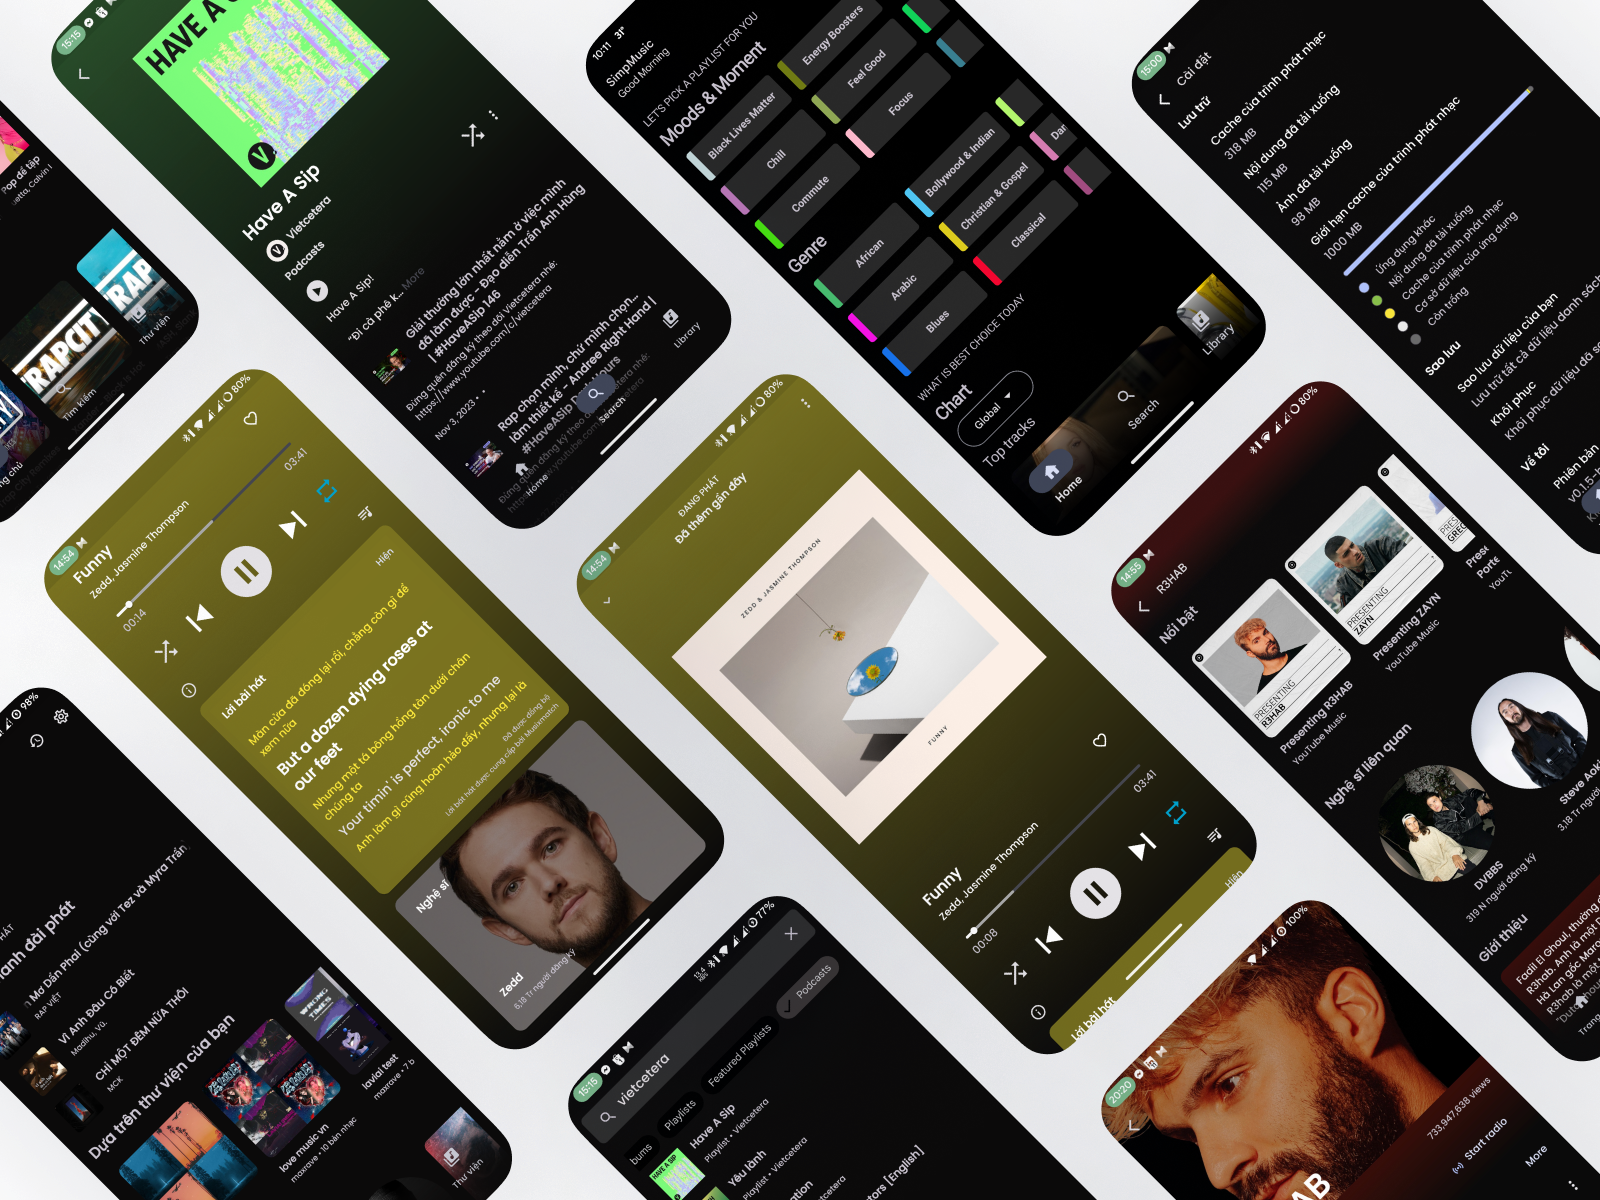
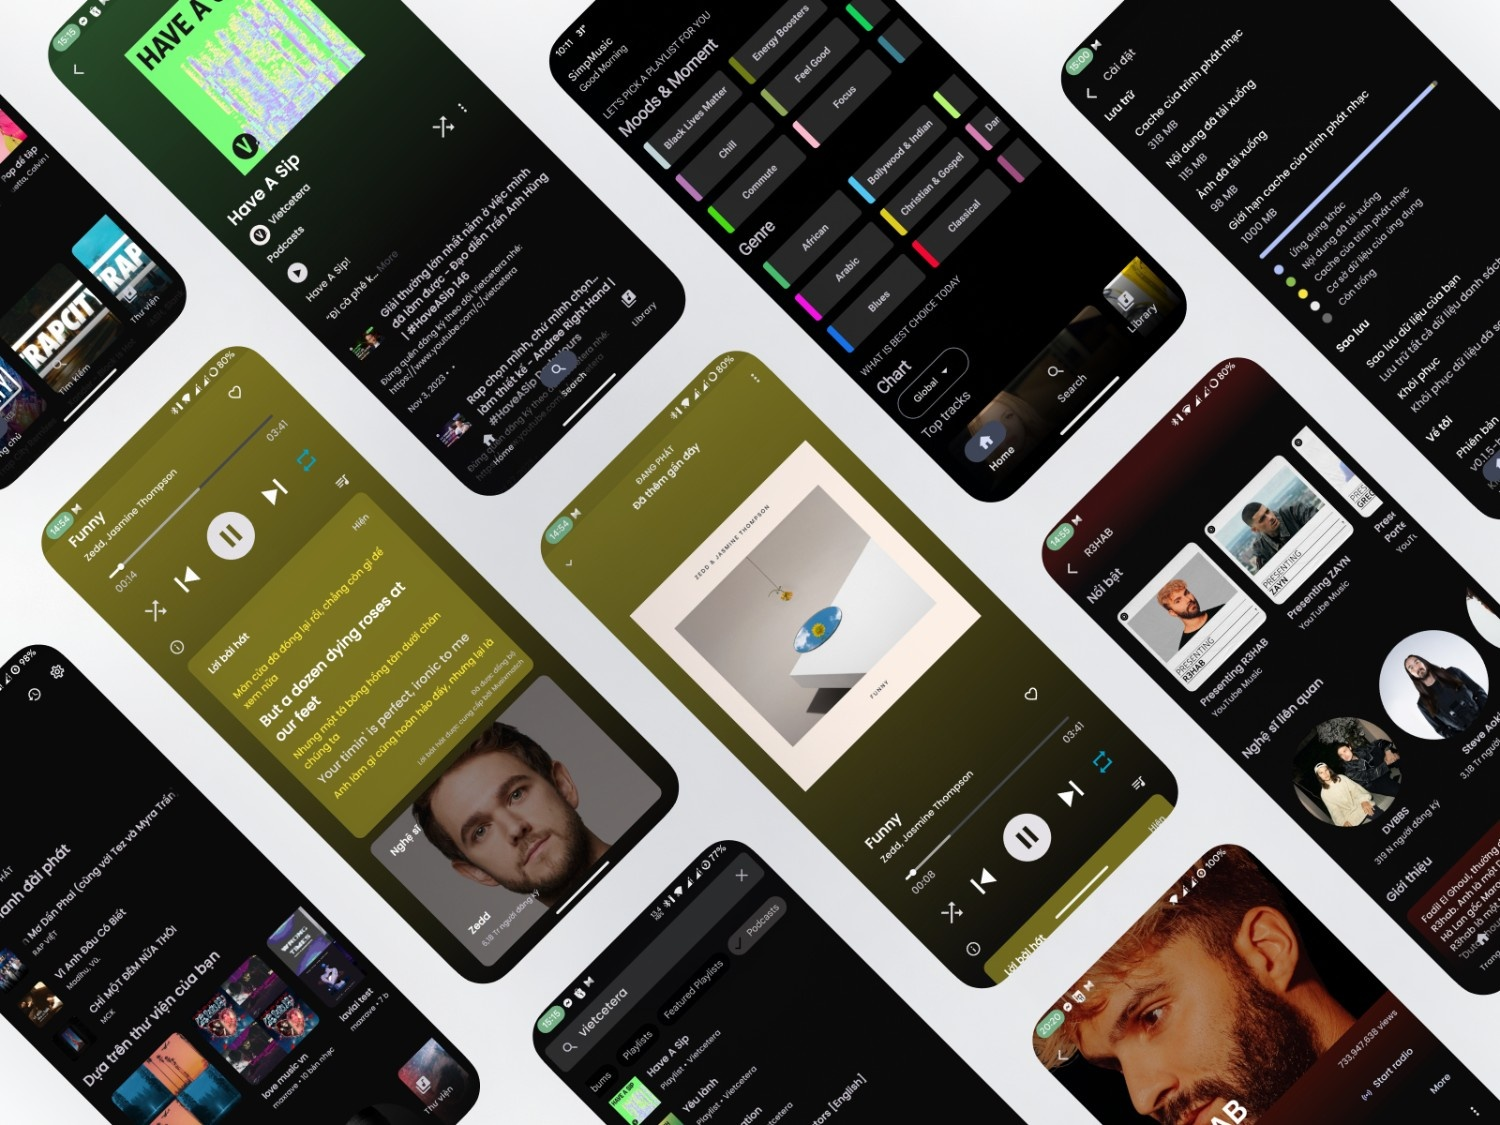
native ads ko every 10 tiems ka baad show karna ha or is ka shat jasa ka favroute,followed,most played,downdload or baaki sab all screen per per or library maa jaha per user ka recently added show hota ha or every place ma or search result ka adner queue ka ander ander or ads every 10 items ka baad 

Changed region(s): [[0.1227, 0.0, 0.2453, 0.1244], [0.5827, 0.1867, 0.6133, 0.2178], [0.2147, 0.56, 0.2453, 0.5911]]

diff --git a/src/components/custom/header/Navbar.jsx b/src/components/custom/header/Navbar.jsx
@@ -73,6 +73,8 @@ export default function Navbar() {
         className={`z-50 pt-2 ${scroll ? "bg-background/70 backdrop-blur-md supports-[backdrop-filter]:bg-background/60" : "bg-transparent"}`}
         position="sticky"
         disableScrollHandler
+        onMenuOpenChange={setIsMenuOpen}
+        isMenuOpen={isMenuOpen}
       >
         <NavbarContent className="md:hidden pr-3" justify="start">
           <NavbarBrand>
@@ -82,14 +84,13 @@ export default function Navbar() {
 
         <NavbarContent className="md:hidden" justify="end">
           <ThemeSwitcher />
-          <Button
-            isIconOnly
-            variant="light"
-            onClick={() => setIsMenuOpen(true)}
-            aria-label="Open menu"
+          <button
+            className="md:hidden text-3xl font-bold leading-none focus:outline-none transition-transform hover:scale-110 active:scale-95"
+            onClick={() => setIsMenuOpen(!isMenuOpen)}
+            aria-label={isMenuOpen ? "Close menu" : "Open menu"}
           >
-            <Menu size={24} />
-          </Button>
+            {isMenuOpen ? <X size={28} /> : "≡"}
+          </button>
         </NavbarContent>
 
         <NavbarContent className="hidden md:flex gap-4" justify="start">
@@ -132,51 +133,51 @@ export default function Navbar() {
               initial={{ opacity: 0 }}
               animate={{ opacity: 1 }}
               exit={{ opacity: 0 }}
+              className="fixed inset-0 z-[90] bg-black/50 backdrop-blur-sm md:hidden"
               onClick={() => setIsMenuOpen(false)}
-              className="fixed inset-0 z-[100] bg-black/50 backdrop-blur-sm md:hidden"
             />
             <motion.div
-              initial={{ x: "100%" }}
-              animate={{ x: 0 }}
-              exit={{ x: "100%" }}
-              transition={{ type: "spring", bounce: 0, duration: 0.4 }}
-              className="fixed top-0 right-0 z-[101] h-full w-[280px] bg-background/95 backdrop-blur-xl shadow-2xl md:hidden border-l border-default-100"
+              initial={{ y: "100%" }}
+              animate={{ y: 0 }}
+              exit={{ y: "100%" }}
+              transition={{ type: "spring", damping: 25, stiffness: 200 }}
+              drag="y"
+              dragConstraints={{ top: 0 }}
+              dragElastic={{ top: 0, bottom: 0.5 }}
+              onDragEnd={(e, { offset, velocity }) => {
+                if (offset.y > 50 || velocity.y > 500) {
+                  setIsMenuOpen(false);
+                }
+              }}
+              className="fixed bottom-0 left-0 right-0 z-[100] h-[50vh] bg-background/95 backdrop-blur-xl rounded-t-3xl border-t border-default-200 shadow-2xl p-6 md:hidden flex flex-col overflow-y-auto"
             >
-              <div className="flex flex-col h-full">
-                <div className="flex justify-end p-4">
-                  <Button
-                    isIconOnly
-                    variant="light"
-                    onClick={() => setIsMenuOpen(false)}
-                    aria-label="Close menu"
+              <div className="flex justify-center mb-4">
+                <div className="w-12 h-1.5 rounded-full bg-default-300" />
+              </div>
+              <div className="flex flex-col gap-4">
+                {menus.map((item, index) => (
+                  <Link
+                    key={`${item}-${index}`}
+                    className="w-full"
+                    color="foreground"
+                    href={item.path}
+                    as={item.isExternal ? undefined : NextLink}
+                    isExternal={item.isExternal}
+                    showAnchorIcon={item.isExternal}
+                    onPress={() => setIsMenuOpen(false)}
+                    size="lg"
                   >
-                    <X size={24} />
-                  </Button>
-                </div>
-                <div className="flex flex-col px-6 gap-6 mt-4">
-                  {menus.map((item, index) => (
-                    <Link
-                      key={`${item}-${index}`}
-                      as={item.isExternal ? undefined : NextLink}
-                      className="w-full"
-                      color="foreground"
-                      href={item.path}
-                      isExternal={item.isExternal}
-                      showAnchorIcon={item.isExternal}
-                      onPress={() => setIsMenuOpen(false)}
+                    <p
+                      className={
+                        (item.path === '/blogs' && isBlogPage) || pathName === item.path
+                          ? "font-bold text-2xl text-primary w-full text-center py-2"
+                          : "font-semibold text-2xl w-full text-center py-2"
+                      }
                     >
-                      <p
-                        className={
-                          (item.path === '/blogs' && isBlogPage) || pathName === item.path
-                            ? "font-bold text-xl text-primary"
-                            : "font-semibold text-xl"
-                        }
-                      >
-                        {item.title}
-                      </p>
-                    </Link>
-                  ))}
-                </div>
+                      {item.title}
+                    </p>
+                  </Link>
+                ))}
               </div>
             </motion.div>
           </>

diff --git a/src/components/custom/ContactSection.jsx b/src/components/custom/ContactSection.jsx
@@ -1,3 +1,4 @@
+"use client";
 import React from "react";
 import {
   Card,
@@ -6,7 +7,7 @@ import {
   Button,
   Divider,
 } from "@nextui-org/react";
-import { FaGithub, FaLinkedin, FaInstagram, FaEnvelope, FaCalendarAlt, FaArrowRight } from "react-icons/fa";
+import { FaGithub, FaLinkedin, FaInstagram, FaEnvelope, FaCalendarAlt, FaArrowRight, FaDiscord } from "react-icons/fa";
 import { FaXTwitter } from "react-icons/fa6";
 import { motion } from "framer-motion";
 
@@ -34,10 +35,17 @@ const ContactSection = () => {
       variant: "flat",
     },
     {
-      name: "X (Twitter)",
+      name: "Twitter",
       icon: <FaXTwitter size={24} />,
       url: "https://x.com/a.b.d.u.l.m.u.e.e.d",
       color: "default",
+      variant: "flat",
+    },
+    {
+      name: "Discord",
+      icon: <FaDiscord size={24} />,
+      url: "https://discord.com/users/am_abdulmueed", 
+      color: "secondary",
       variant: "flat",
     },
     {
@@ -72,10 +80,10 @@ const ContactSection = () => {
           <div className="flex flex-col gap-6 text-center md:text-left">
             <div>
               <h2 className="text-4xl md:text-6xl font-bold tracking-tight bg-clip-text text-transparent bg-gradient-to-r from-gradientstart to-gradientend mb-4">
-                Let&apos;s Connect
+                Let's Connect
               </h2>
               <p className="text-default-500 text-lg md:text-xl leading-relaxed max-w-md mx-auto md:mx-0">
-                I&apos;m always open to discussing new projects, creative ideas, or opportunities to be part of your visions.
+                I'm always open to discussing new projects, creative ideas, or opportunities to be part of your visions.
               </p>
             </div>
 
@@ -117,7 +125,7 @@ const ContactSection = () => {
                       isExternal
                       variant="ghost"
                       color={link.color}
-                      className={`h-14 justify-start px-4 border-default-200/50 hover:border-${link.color}/50 hover:bg-${link.color}/10 transition-all duration-300 group ${index === socialLinks.length - 1 ? "col-span-2 justify-center" : ""}`}
+                      className={`h-14 justify-start px-4 border-default-200/50 hover:border-${link.color}/50 hover:bg-${link.color}/10 transition-all duration-300 group`}
                       startContent={
                         <span className={`text-${link.color} group-hover:scale-110 transition-transform`}>
                             {link.icon}

diff --git a/src/components/custom/BlogsFilter.jsx b/src/components/custom/BlogsFilter.jsx
@@ -19,7 +19,7 @@ export default function BlogsFilter({ blogs, defaultImage }) {
     const savedLang = localStorage.getItem('language') || 'en';
     setCurrentLang(savedLang);
     console.log(savedLang);
-  }, [blogs]);
+  }, []);
 
   const filteredBlogs = blogs.filter(blog => {
     const matchesSearch = blog.title.toLowerCase().includes(searchQuery.toLowerCase()) ||

diff --git a/todo.md b/todo.md
@@ -1,1 +1,2 @@
 add opengraph & metatag & seo
+≡⋮⮜